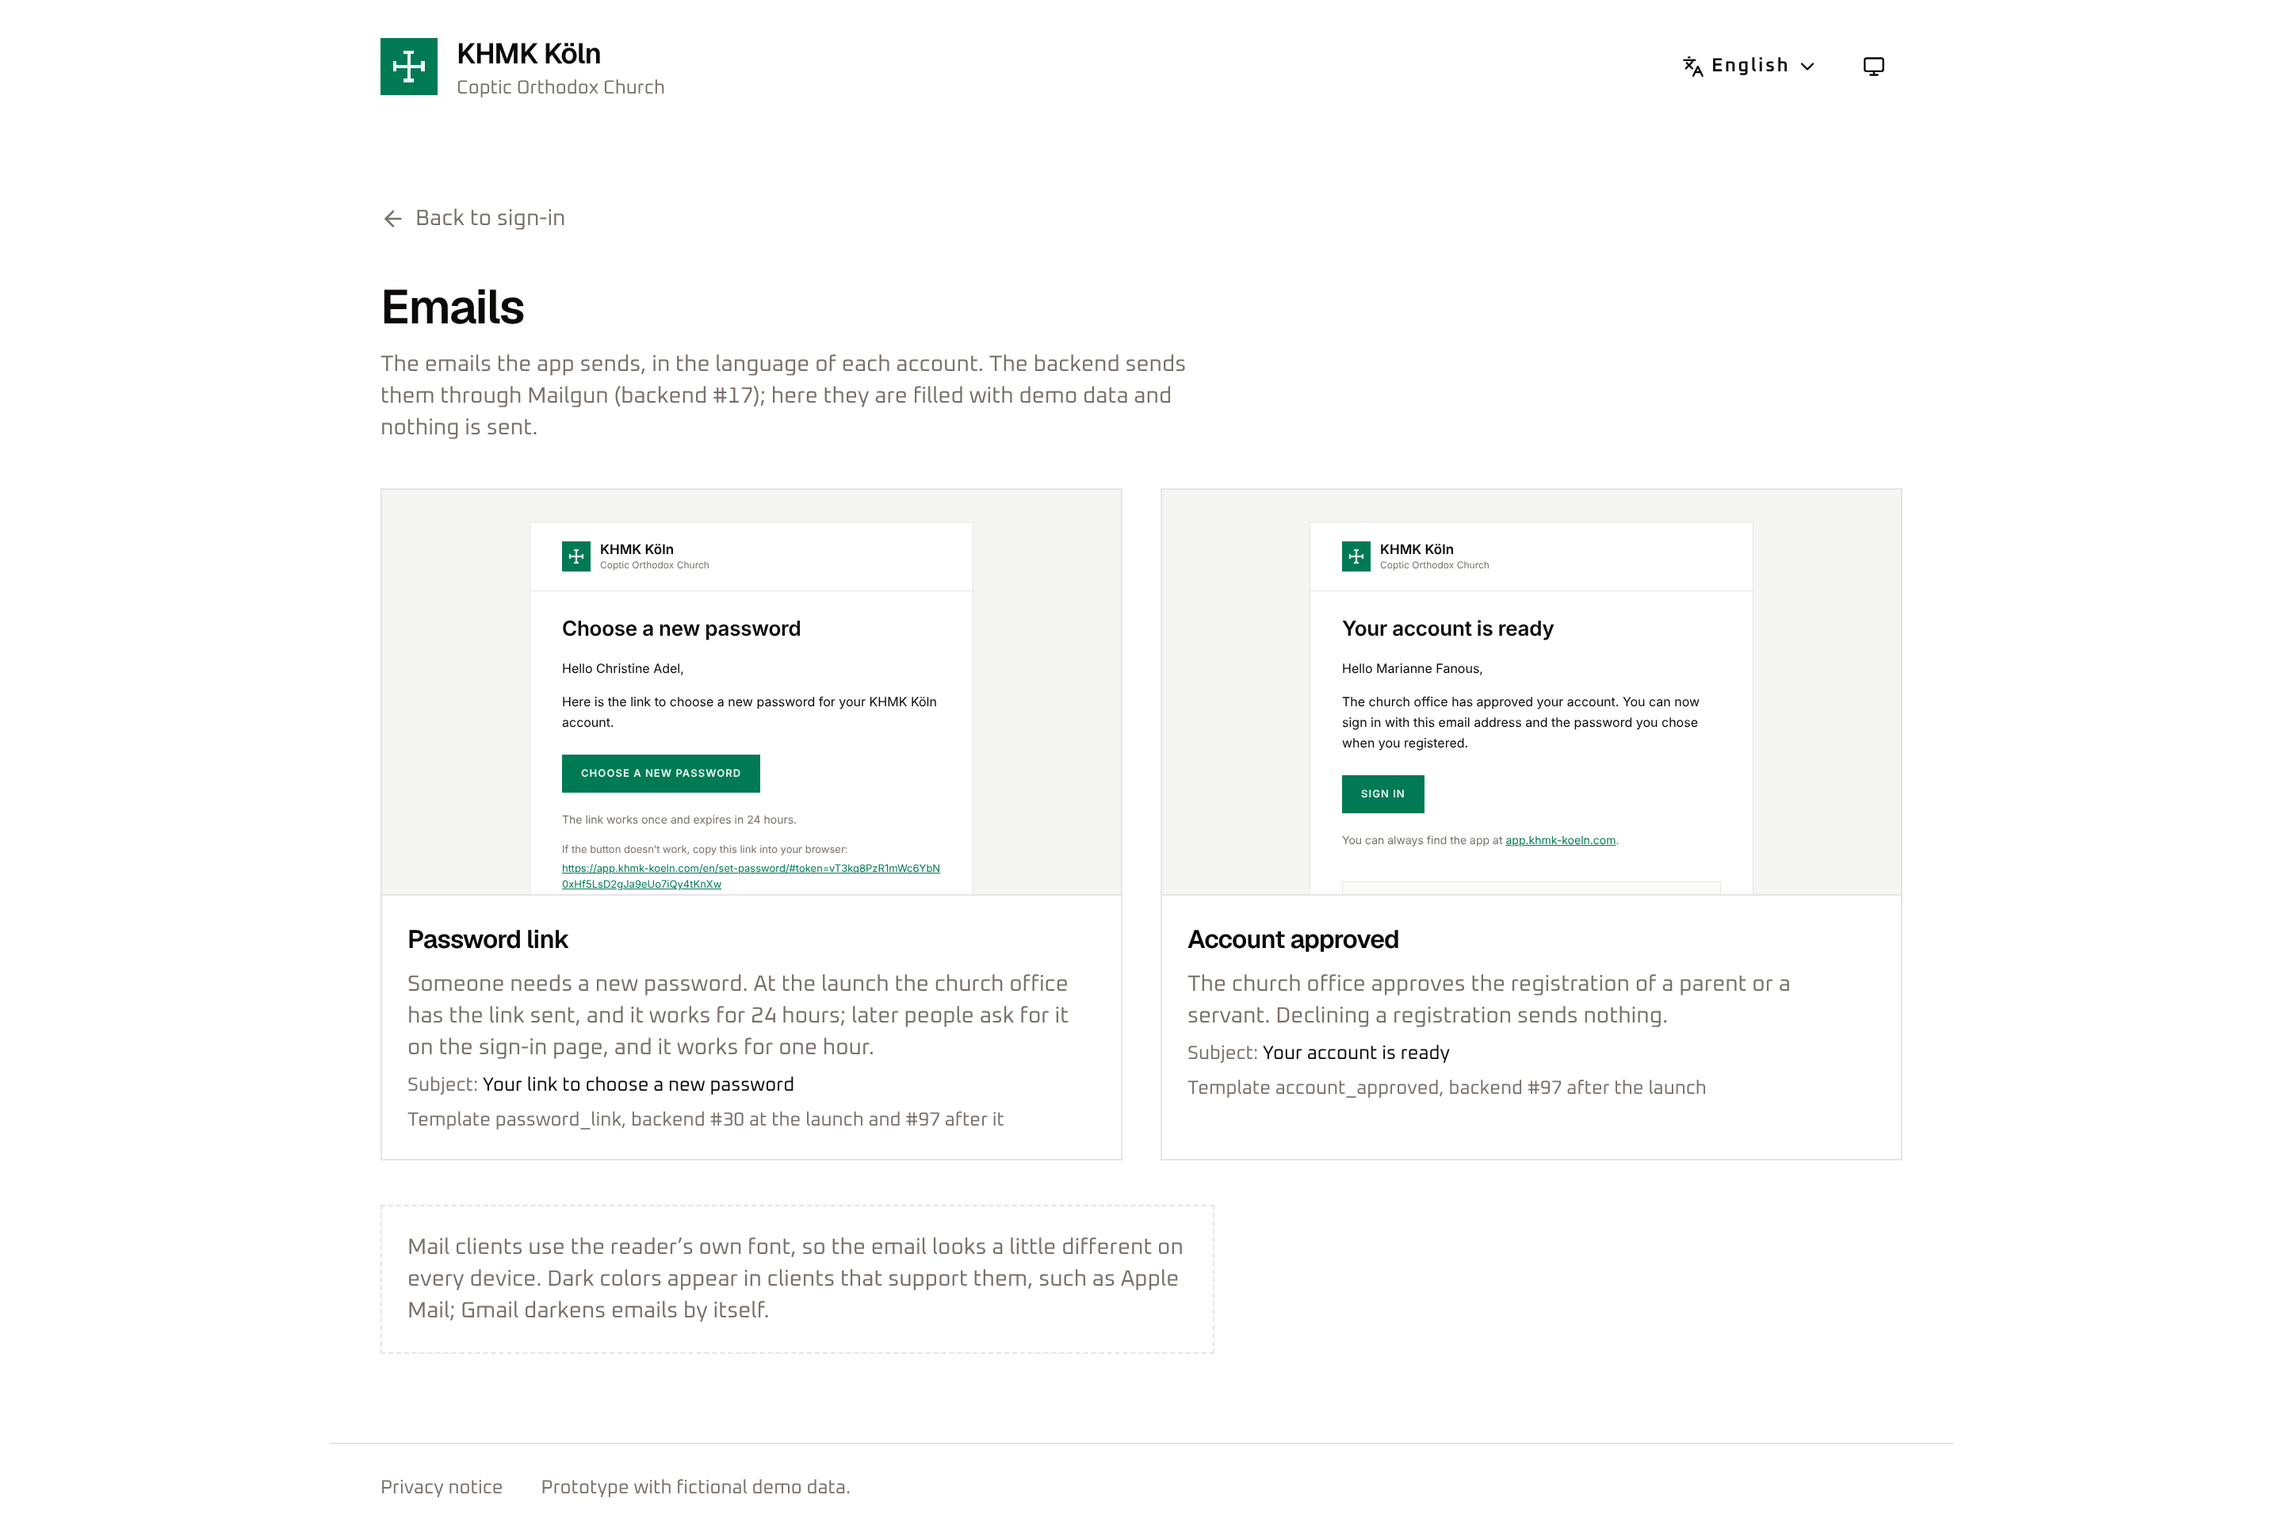
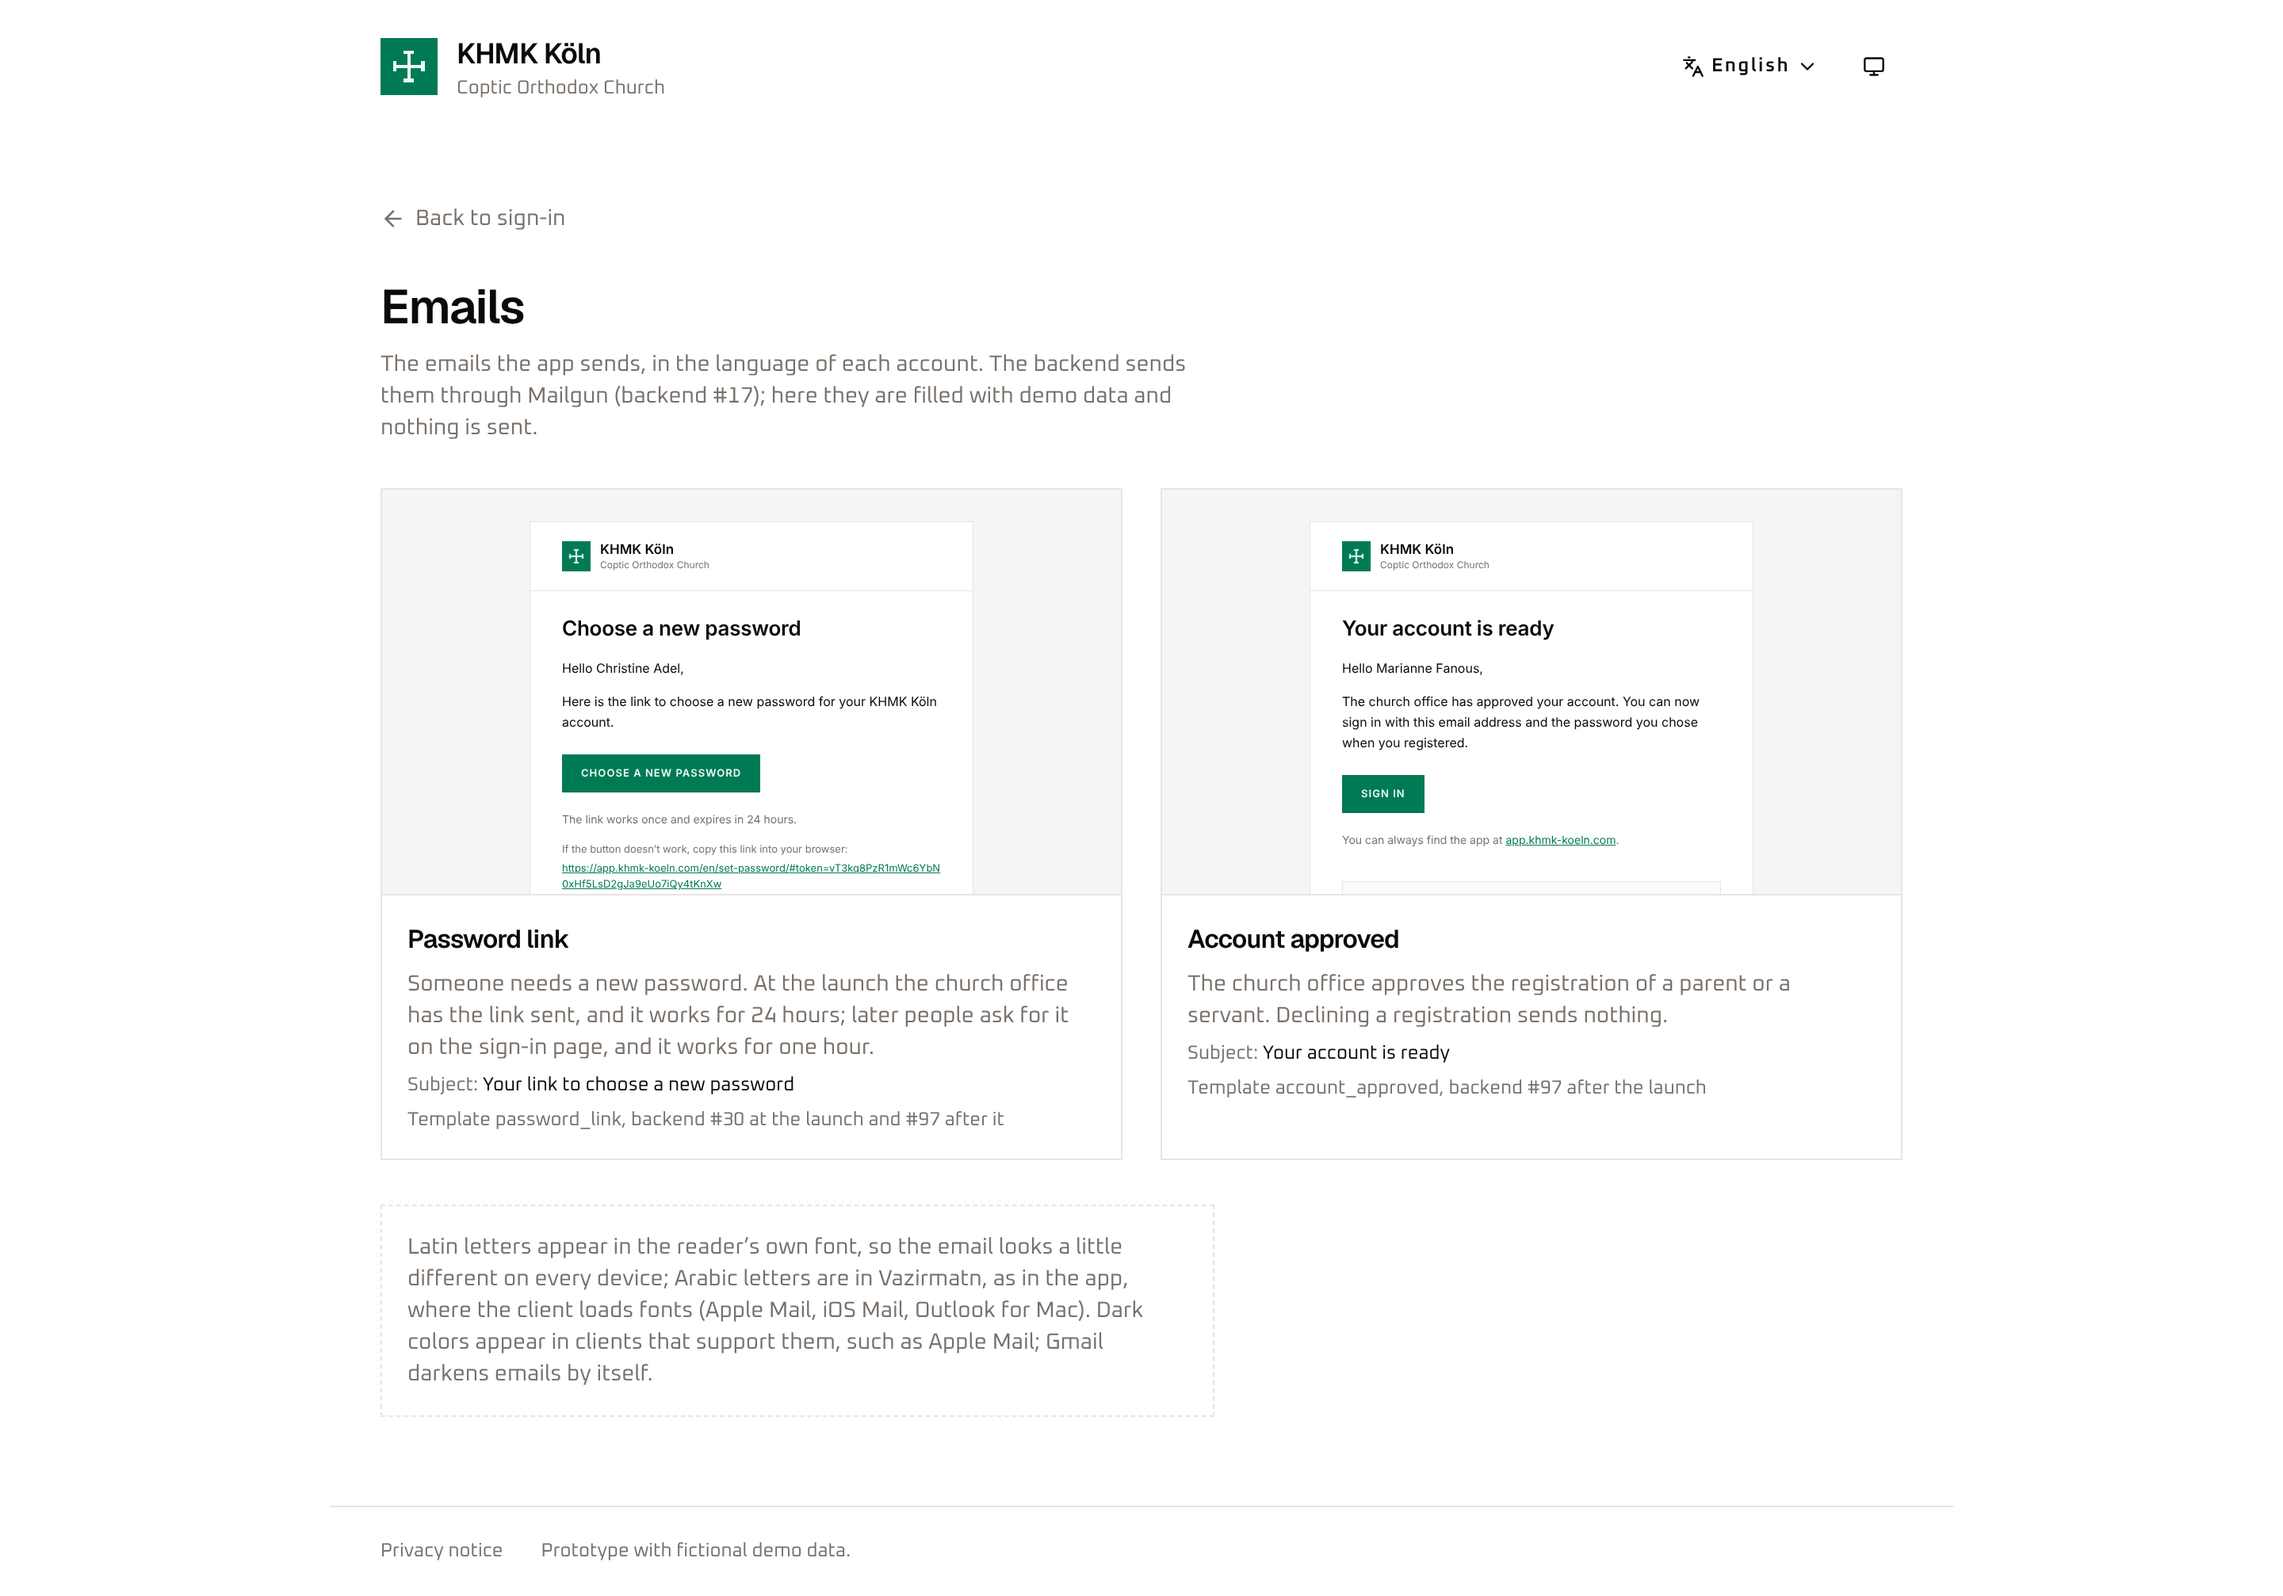
Set Arabic letters in the emails in Vazirmatn

diff --git a/ui-prototype/src/server/emails/layout.ts b/ui-prototype/src/server/emails/layout.ts
@@ -12,9 +12,10 @@ import en from "../../../messages/emails/en.json"
  * The frame every email shares, the way the backend's Twig layout will draw it (backend #17):
  * the church's mark and name, a title, the content with one button, a quiet note, and a footer
  * that says why the email came. Mail clients need old HTML: tables for the layout, inline styles,
- * no web fonts (the reader's system font), and nothing that depends on an image (the mark's cell
- * is emerald even when images are blocked). The colors are preset b3a10z1gt0's, converted to hex;
- * clients that honor `prefers-color-scheme` (Apple Mail, Outlook for Mac) get the dark ones.
+ * the reader's system font (with Arabic letters in Vazirmatn where the client loads fonts), and
+ * nothing that depends on an image (the mark's cell is emerald even when images are blocked). The
+ * colors are preset b3a10z1gt0's, converted to hex; clients that honor `prefers-color-scheme`
+ * (Apple Mail, Outlook for Mac) get the dark ones.
  *
  * Every email also has a plain-text part with the same words, built from the same blocks.
  */
@@ -63,15 +64,39 @@ const DARK = {
 } as const
 
 /**
- * The reader's own sans-serif: San Francisco on Apple devices, Segoe UI on Windows, Roboto
- * (and Noto for Arabic) on Android. Fonts from a font service would tell it who opened the email.
+ * Arabic letters in Vazirmatn, the app's Arabic font, and everything else in the reader's own
+ * sans-serif: San Francisco on Apple devices, Segoe UI on Windows, Roboto on Android. Vazirmatn
+ * comes first, but its face only covers Arabic (see `arabicFontFace`), so Latin letters go on to
+ * the system fonts. Clients that don't load fonts (Gmail, Outlook for Windows) skip it and use
+ * their system's Arabic font.
  */
 const FONT =
-  "-apple-system, BlinkMacSystemFont, 'Segoe UI', Roboto, 'Helvetica Neue', Arial, 'Noto Sans Arabic', Tahoma, sans-serif"
+  "'Vazirmatn', -apple-system, BlinkMacSystemFont, 'Segoe UI', Roboto, 'Helvetica Neue', Arial, 'Noto Sans Arabic', Tahoma, sans-serif"
 
 /**
- * Two style blocks: a client that can't read one (Gmail drops a block it doesn't understand)
- * keeps the other. The inline styles alone already make a complete email.
+ * The Arabic subset of Vazirmatn (variable, 100–900), served by the web app next to the mark.
+ * From the app's own server, never a font service, which would learn who opened the email. A
+ * client only downloads it for an email with Arabic letters.
+ */
+function arabicFontFace(assetsUrl: string) {
+  return (
+    "@font-face{font-family:'Vazirmatn';font-style:normal;font-weight:100 900;" +
+    `src:url('${assetsUrl}/email/vazirmatn-arabic.woff2') format('woff2');` +
+    "unicode-range:U+0600-06FF,U+0750-077F,U+0870-08FF,U+FB50-FDFF,U+FE70-FEFF;}"
+  )
+}
+
+/**
+ * Outlook for Windows takes the first font of a list and falls back to Times New Roman when it
+ * doesn't have it, so it gets one font it has, with Arabic letters too.
+ */
+const OUTLOOK_FONT =
+  "<!--[if mso]><style>body,table,td,p,a,h1{font-family:'Segoe UI',Arial,sans-serif!important;}</style><![endif]-->"
+
+/**
+ * Separate style blocks (with the font's in a third): a client that can't read one (Gmail drops
+ * a block it doesn't understand) keeps the others. The inline styles alone already make a
+ * complete email.
  */
 const CSS = [
   "body{margin:0;padding:0;width:100%!important;-webkit-text-size-adjust:100%;-ms-text-size-adjust:100%;}" +
@@ -245,7 +270,8 @@ export function renderHtml(email: EmailContent): string {
 <meta name="color-scheme" content="light dark">
 <meta name="supported-color-schemes" content="light dark">
 <title>${escapeHtml(email.subject)}</title>
-${CSS.map((css) => `<style>${css}</style>`).join("\n")}
+${[arabicFontFace(email.assetsUrl.replace(/['"()\\<>\s]/g, "")), ...CSS].map((css) => `<style>${css}</style>`).join("\n")}
+${OUTLOOK_FONT}
 </head>
 <body class="k-canvas" dir="${dir}" style="margin:0;padding:0;background-color:${COLORS.canvas};">
 <div style="display:none;font-size:1px;line-height:1px;max-height:0;max-width:0;opacity:0;overflow:hidden;mso-hide:all;">${escapeHtml(email.preheader)}${previewPadding}</div>

diff --git a/ui-prototype/src/server/emails/emails.test.ts b/ui-prototype/src/server/emails/emails.test.ts
@@ -50,6 +50,16 @@ describe.each(EMAIL_IDS)("the %s email", (id) => {
       `<span dir="ltr" style="unicode-bidi:embed;">${email.to.email}</span>`
     )
   })
+
+  test("sets Arabic letters in Vazirmatn from the app's server, and gives Outlook one font", () => {
+    const { html } = renderEmail(id, { locale: "ar", assetsUrl: ASSETS })
+    expect(html).toContain(`src:url('${ASSETS}/email/vazirmatn-arabic.woff2') format('woff2')`)
+    // Only Arabic: Latin letters keep the reader's system font.
+    expect(html).toMatch(/@font-face\{font-family:'Vazirmatn';[^}]*unicode-range:U\+0600-06FF,/)
+    expect(html).toContain("font-family:'Vazirmatn', -apple-system")
+    expect(html).toContain("<!--[if mso]><style>body,table,td,p,a,h1{font-family:'Segoe UI'")
+    expect(html).not.toMatch(/fonts\.googleapis|fonts\.gstatic/)
+  })
 })
 
 describe("the password link", () => {

diff --git a/ui-prototype/src/features/emails/email-thumbnail.tsx b/ui-prototype/src/features/emails/email-thumbnail.tsx
@@ -19,7 +19,8 @@ export function EmailThumbnail({
         srcDoc={html}
         title={title}
         tabIndex={-1}
-        sandbox=""
+        // Same origin only so the email can load its font; an email has no scripts.
+        sandbox="allow-same-origin"
         className="pointer-events-none absolute top-0 h-[1040px] w-[200%] scale-50 border-0 ltr:left-0 ltr:origin-top-left rtl:right-0 rtl:origin-top-right"
       />
     </div>

diff --git a/ui-prototype/README.md b/ui-prototype/README.md
@@ -126,12 +126,20 @@ How they are built, and what the backend should keep:
 - **Mail-client HTML**: a 560 px card of tables with inline styles (a conditional table keeps Outlook at
   560 px), a button drawn by a table cell, the preview text hidden at the top. Phones get the card at full
   width with 24 px padding.
-- **No web fonts**: the reader's system font (San Francisco, Segoe UI, Roboto and their Arabic faces).
-  Loading the app's fonts from a font service would tell it who opened the email.
+- **Fonts**: Latin letters in the reader's system font (San Francisco, Segoe UI, Roboto). Arabic letters in
+  Vazirmatn, as in the app, where the client loads fonts (Apple Mail, iOS Mail, Outlook for Mac): an
+  `@font-face` limited to Arabic (`unicode-range`) points at `public/email/vazirmatn-arabic.woff2` (its
+  Arabic subset, 46 KB, OFL licence beside it), served by the web app at
+  `FRONTEND_URL/email/vazirmatn-arabic.woff2`, so only emails with Arabic letters download it. Gmail and
+  Outlook for Windows show their system's Arabic font; Outlook for Windows gets Segoe UI through a
+  conditional style, because it doesn't fall back along a font list. Never from a font service, which
+  would learn who opened the email.
 - **Colors**: preset `b3a10z1gt0` in hex (stone and emerald). Dark colors come in a second style block for
   clients that honor `prefers-color-scheme`; the inline styles alone are a complete light email.
 - **The mark**: `public/email/khmk-mark.png` (108 px for 36 px), which the web app serves at
   `FRONTEND_URL/email/khmk-mark.png`. Its cell is emerald, so the square stays when images are blocked.
+  The web app should serve `/email/*` with `Access-Control-Allow-Origin: *`, as fonts from another origin
+  need it.
 - **Arabic**: `dir="rtl"` on the document, the card and every text cell, text aligned right; addresses and
   URLs stay left to right. Numbers are Western digits as in the app (in PHP, format the Arabic texts with
   `ar@numbers=latn` if ICU chooses Arabic-Indic digits).
@@ -150,7 +158,7 @@ How they are built, and what the backend should keep:
 | `src/app/emails/` | The Emails section: the list, one email's page, and the raw HTML and text parts. |
 | `src/server/emails/` | The emails: the shared layout (HTML and plain text) and each email's content. |
 | `messages/emails/` | The emails' texts in English, German and Arabic, checked by the same catalog test. |
-| `public/email/` | The mark the emails show, served by the web app. |
+| `public/email/` | The mark and the Arabic font the emails load, served by the web app. |
 | `src/features/` | Screen parts by area: attendance, meetings, stages, lessons, homework, parent, member, settings, … |
 | `src/components/` | Shared parts: app shell, data table, dialogs, form panels, status badges. `ui/` holds the shadcn/ui components of preset `b3a10z1gt0`. |
 | `src/server/actions/` | Server actions: validate input with zod, call the mock layer, return a result or a problem. |
